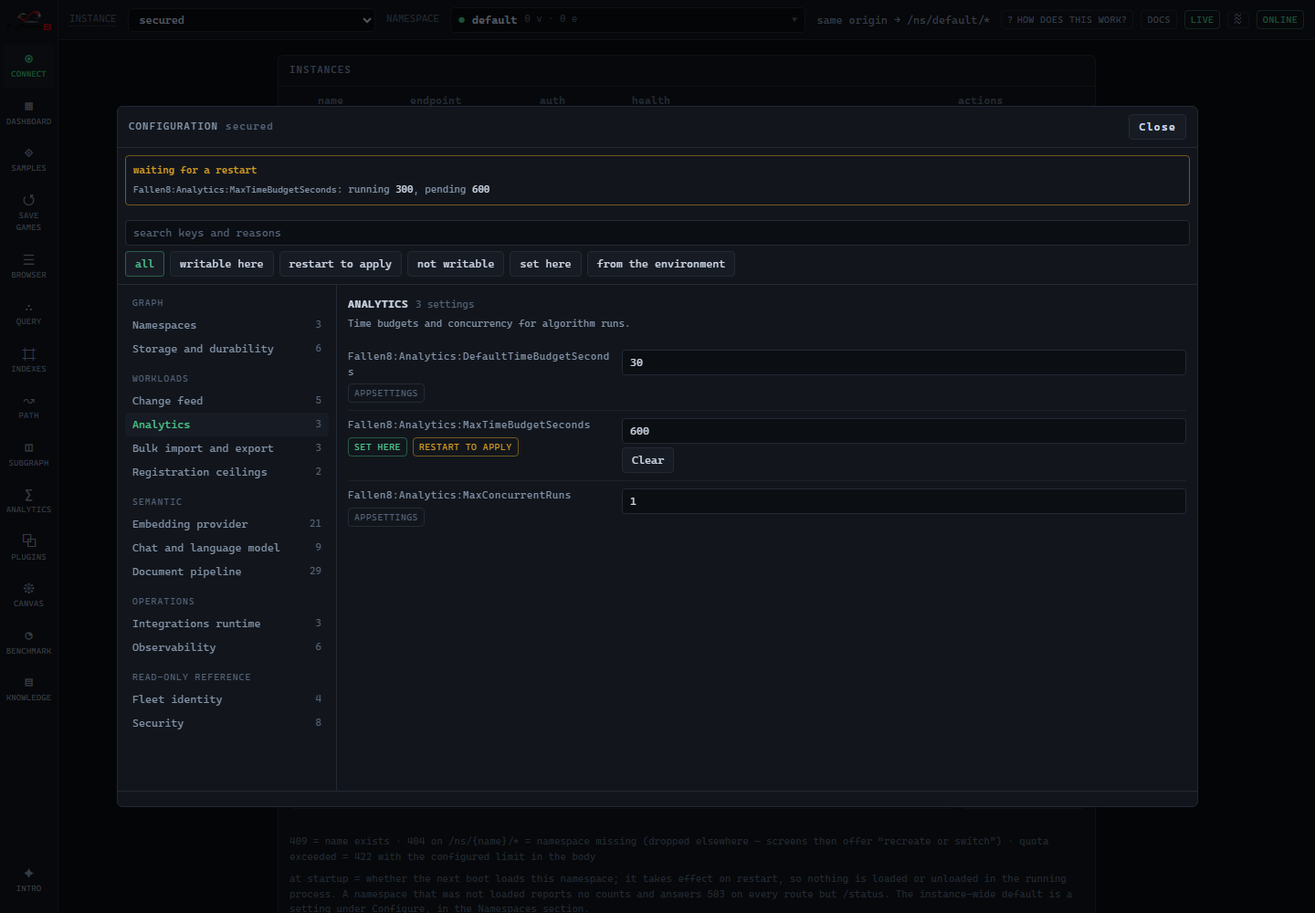
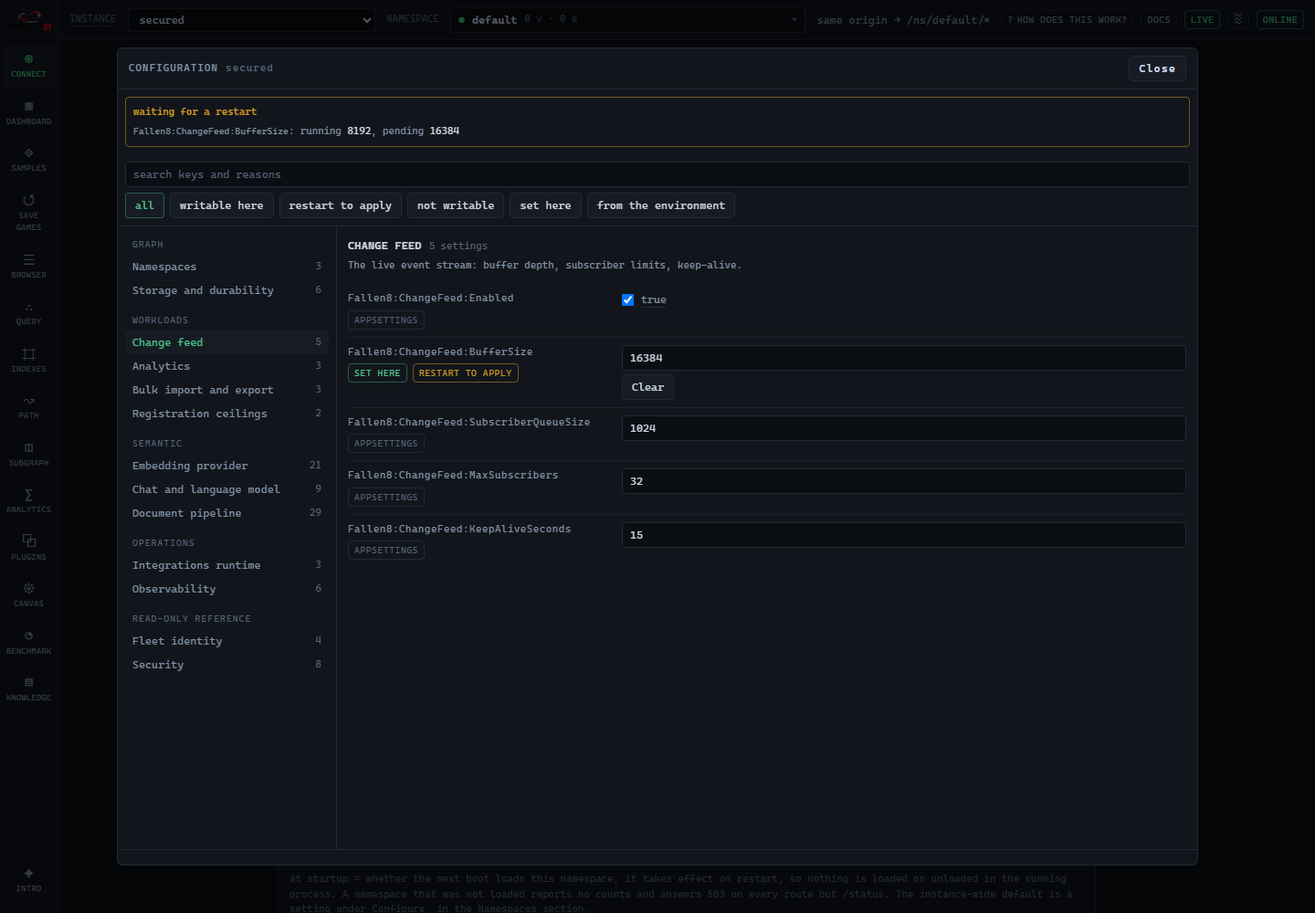
configuration-surface: what the council review found
Eight confirmed findings out of nineteen candidates, two of them the kind that ship silently.

The exporter view disappeared under a search or a filter on an instance that publishes no
settings inventory. That is the exact case withObservability injects the section for, and
the note above it still said what it is exporting is "readable below" while the pane was
blank. The narrowing controls are no longer rendered when there is nothing to narrow, the
hand-authored layout survives any filter for a section with no descriptors of its own
(reachable with an inventory too, since an instance can publish settings and none under
Fallen8:Observability), and the false promise is gone. Two new cases pin it.

The recaptured observability screenshot was clipped one row short, publishing five of six
keys with every guard green, because toBeVisible() is true for a row below the pane's
scroll. Added a toBeInViewport guard on the last row, and raised the dialog height cap from
48rem to 56rem so it fits. The cap was a real limit and not just a capture problem: a
six-row section with group hints did not fit on a screen with the space for it.

Also: the nav printed a false "0" beside the injected Observability entry, because
`?? 0` collapsed the null before the suppression guard could see it, leaving that guard and
two comments as dead code. The restart-pending filter label was re-authored instead of
importing RESTART_PENDING_CHIP from its declared one home. The Connect capture's inventory
[…]

Changed region(s): [[0.0938, 0.062, 0.9062, 0.775], [0.4688, 0.465, 0.5, 0.589], [0.4062, 0.434, 0.4375, 0.465]]

diff --git a/fallen-8-web-ui/src/components/ConfigurationSurface.tsx b/fallen-8-web-ui/src/components/ConfigurationSurface.tsx
@@ -94,7 +94,10 @@ export function ConfigurationSurface(props: ConfigurationSurfaceProps) {
         <Dialog.Content
           aria-describedby={undefined}
           data-testid="config-surface"
-          className="panel modal-center flex h-[min(48rem,90vh)] w-[min(74rem,94vw)] flex-col overflow-hidden"
+          // 56rem rather than 48: at 48 a six-row section with group hints did not fit, which is not
+          // just a screenshot problem - it is rows an operator has to scroll for on a screen that had
+          // the space. 90vh still wins on a short window.
+          className="panel modal-center flex h-[min(56rem,90vh)] w-[min(74rem,94vw)] flex-col overflow-hidden"
         >
           {/* Mounted UNDER Dialog.Content on purpose: Radix unmounts this subtree on close, which is
               what resets the section, the query and the filter. */}
@@ -195,30 +198,35 @@ function SurfaceBody({
         </div>
       )}
 
-      <div className="border-line flex shrink-0 flex-wrap items-center gap-1.5 border-b p-2">
-        <input
-          className="input w-56 shrink-0"
-          data-testid="config-search"
-          type="search"
-          placeholder="search keys and reasons"
-          aria-label="search settings"
-          value={query}
-          onChange={(event) => setQuery(event.target.value)}
-        />
-        {CONFIG_FILTERS.map((entry) => (
-          <button
-            key={entry.id}
-            type="button"
-            title={entry.title}
-            aria-pressed={filter === entry.id}
-            data-testid={`config-filter-${entry.id}`}
-            className={filter === entry.id ? "btn btn-accent normal-case" : "btn normal-case"}
-            onClick={() => setFilter(entry.id)}
-          >
-            {entry.label}
-          </button>
-        ))}
-      </div>
+      {/* No inventory means nothing to narrow, and a filter here could only ever subtract the one
+          section that still has something to say. Hiding the controls is what keeps `filter` at "all"
+          and `query` empty on such an instance. */}
+      {settings.length > 0 && (
+        <div className="border-line flex shrink-0 flex-wrap items-center gap-1.5 border-b p-2">
+          <input
+            className="input w-56 shrink-0"
+            data-testid="config-search"
+            type="search"
+            placeholder="search keys and reasons"
+            aria-label="search settings"
+            value={query}
+            onChange={(event) => setQuery(event.target.value)}
+          />
+          {CONFIG_FILTERS.map((entry) => (
+            <button
+              key={entry.id}
+              type="button"
+              title={entry.title}
+              aria-pressed={filter === entry.id}
+              data-testid={`config-filter-${entry.id}`}
+              className={filter === entry.id ? "btn btn-accent normal-case" : "btn normal-case"}
+              onClick={() => setFilter(entry.id)}
+            >
+              {entry.label}
+            </button>
+          ))}
+        </div>
+      )}
 
       <div className="flex min-h-0 flex-1">
         {/* w-60 is the width at which the longest section label ("Chat and language model") fits
@@ -242,7 +250,7 @@ function SurfaceBody({
                   <NavEntry
                     key={entry.section.id}
                     entry={entry}
-                    count={counts.get(entry.section.id) ?? 0}
+                    count={counts.get(entry.section.id) ?? null}
                     active={!searching && entry.section.id === selected?.section.id}
                     onSelect={() => {
                       setSectionId(entry.section.id);
@@ -258,8 +266,7 @@ function SurfaceBody({
         <div className="min-w-0 flex-1 overflow-y-auto p-3" data-testid="config-section-pane">
           {settings.length === 0 && (
             <p className="text-fg-faint mb-3 text-[11px]" data-testid="config-no-inventory">
-              This instance publishes no settings inventory, so nothing here can be changed. What it is
-              exporting is still readable below.
+              This instance publishes no settings inventory, so nothing here can be changed.
             </p>
           )}
           {panes.length === 0 ? (
@@ -409,7 +416,11 @@ function SectionPane({
   // Observability keeps its hand-authored layout, which explains what its keys are for and shows the
   // effective value of the three whose descriptor withholds it. A query or a filter falls back to the
   // generic rows, so searching and filtering behave the same in every section.
-  const custom = entry.section.id === "observability" && !searching && filter === "all";
+  // A section with NO descriptors keeps this layout whatever the filter says, because the generic row
+  // path would render nothing at all for it. Reachable with an inventory too: an instance can publish
+  // settings and none of them under Fallen8:Observability.
+  const custom =
+    entry.section.id === "observability" && !searching && (filter === "all" || entry.settings.length === 0);
 
   return (
     <section>

diff --git a/fallen-8-web-ui/e2e/screenshot-configuration.spec.ts b/fallen-8-web-ui/e2e/screenshot-configuration.spec.ts
@@ -47,14 +47,18 @@ import { expect, test } from "@playwright/test";
 const API_KEY = process.env.F8_E2E_API_KEY ?? "e2e-key";
 const AUTH = { Authorization: `Bearer ${API_KEY}` };
 
-// A RESTART-tier key in a small section, so one written value puts all three things this surface
-// exists for on the picture at once: the "set here" source badge, the restart-to-apply chip on the
-// row, and the pending list naming the running and the pending value. It has to be restart-tier for
-// the pending state to appear at all (a live key applies immediately and is correctly never pending),
-// and its section has to be small enough that the whole of it is in frame.
-const WRITTEN_KEY = "Fallen8:Analytics:MaxTimeBudgetSeconds";
-const WRITTEN_ROW = "config-setting-fallen8-analytics-maxtimebudgetseconds";
-const WRITTEN_SECTION = "config-section-analytics";
+// A RESTART-tier key, so one written value puts all three things this surface exists for on the
+// picture at once: the "set here" source badge, the restart-to-apply chip on the row, and the pending
+// list naming the running and the pending value. It has to be restart-tier for the pending state to
+// appear at all (a live key applies immediately and is correctly never pending).
+//
+// Change feed rather than a smaller section: its five keys fill the pane and cover three of the
+// control shapes a reader should see (a checkbox for a bool, numeric fields, and a live-tier row
+// beside restart-tier ones), while still fitting without scrolling.
+const WRITTEN_KEY = "Fallen8:ChangeFeed:BufferSize";
+const WRITTEN_VALUE = "16384";
+const WRITTEN_ROW = "config-setting-fallen8-changefeed-buffersize";
+const WRITTEN_SECTION = "config-section-changefeed";
 
 test.skip(process.env.F8_SCREENSHOT !== "1", "docs screenshot capture (set F8_SCREENSHOT=1)");
 
@@ -67,7 +71,7 @@ test("capture the configuration surface", async ({ page, request }) => {
   // a settled state, not of a form mid-edit.
   const written = await request.patch("/config", {
     headers: AUTH,
-    data: { settings: { [WRITTEN_KEY]: "600" } },
+    data: { settings: { [WRITTEN_KEY]: WRITTEN_VALUE } },
   });
   expect(
     written.ok(),
@@ -107,7 +111,7 @@ test("capture the configuration surface", async ({ page, request }) => {
   await expect(
     page.getByTestId(WRITTEN_ROW),
     "the stored value did not survive to the read surface.",
-  ).toHaveValue("600");
+  ).toHaveValue(WRITTEN_VALUE);
   await expect(
     page.getByTestId("config-pending-restart-detail"),
     "the pending-restart list is absent: a restart-tier value must differ from what this process " +

diff --git a/fallen-8-web-ui/e2e/screenshot-connect.spec.ts b/fallen-8-web-ui/e2e/screenshot-connect.spec.ts
@@ -109,12 +109,23 @@ test("capture the Connect screen", async ({ page, request }) => {
   // false by construction (they are in a modal). What this shot documents is the summary and the way
   // in, so the inventory count and the Configure button are the things that have to be real: the
   // count is only non-zero when the capture app actually published an inventory.
+  // The count has to be NON-ZERO: "0 set here" is what an app with no stored configuration prints, and
+  // this shot exists partly to show that an instance can hold its own settings. A bare /set here/
+  // matched that degraded string.
   await expect(
     page.getByTestId("config-settings-summary"),
-    "the settings inventory is missing: run the capture app with Fallen8__Metadata__Directory so it " +
-      "has somewhere to store configuration.",
-  ).toContainText(/set here/, { timeout: 20_000 });
+    "the inventory reports nothing stored here: run e2e/screenshot-configuration.spec.ts FIRST (it " +
+      "writes the value), against a capture app with Fallen8__Security__EnableConfigurationWrite=true " +
+      "and a FRESH Fallen8__Metadata__Directory.",
+  ).toContainText(/[1-9]\d* set here/, { timeout: 20_000 });
   await expect(page.getByTestId("config-configure")).toBeVisible();
+  // Same prerequisite, stated as its own guard so a missing restart notice is not silently accepted:
+  // the card's restart count is part of what this frame documents.
+  await expect(
+    page.getByTestId("config-pending-restart"),
+    "the restart notice is absent: same prerequisite as above, and the metadata directory must be " +
+      "fresh so the stored value really differs from what this process booted with.",
+  ).toBeVisible();
   await expect(
     page.locator('[data-testid^="config-setting-"]'),
     "a settings row is on the Connect screen, so the configuration surface did not take them.",

diff --git a/fallen-8-web-ui/tests/connect-config.test.tsx b/fallen-8-web-ui/tests/connect-config.test.tsx
@@ -185,6 +185,33 @@ describe("Connect Configuration card", () => {
     expect(screen.getByTestId("config-settings-summary")).toHaveTextContent(
       "publishes no settings inventory",
     );
+
+    // Nothing to narrow, so the two controls that could only ever subtract this one section are not
+    // offered at all. Without this, one filter click blanked the pane and the exporter view was gone.
+    expect(screen.queryByTestId("config-search")).toBeNull();
+    expect(screen.queryByTestId("config-filter-writable")).toBeNull();
+    // And the nav shows no number beside it: a "0" next to a pane that does have content is a lie.
+    expect(screen.getByTestId("config-section-observability")).not.toHaveTextContent("0");
+  });
+
+  it("keeps the exporter view under a filter when the section itself has no descriptors", async () => {
+    // The instance publishes settings, but none under Fallen8:Observability, so the filter strip IS
+    // offered. The hand-authored layout has to survive it: the generic row path would render nothing
+    // at all for a section with no descriptors, leaving a blank pane under a section heading.
+    const user = userEvent.setup();
+    getConfigMock.mockResolvedValue(config({ settings: [setting("Fallen8:Plugins:MaxCount")] }));
+    renderPanel();
+    await screen.findByTestId("config-embedding");
+
+    await openConfig(user);
+    await selectSection(user, "observability");
+    await screen.findByTestId("config-observability-overlay");
+
+    await user.click(screen.getByTestId("config-filter-writable"));
+    await waitFor(() =>
+      expect(screen.getByTestId("config-observability-overlay")).toBeInTheDocument(),
+    );
+    expect(screen.getByTestId("config-otlp-endpoint")).toHaveTextContent("http://otel-collector:4317");
   });
 
   it("hides GPU when unknown, shows off states, and reports no exporter", async () => {

diff --git a/fallen-8-web-ui/src/components/ObservabilitySection.tsx b/fallen-8-web-ui/src/components/ObservabilitySection.tsx
@@ -41,8 +41,8 @@ import { SettingRow } from "./SettingRow";
  *
  * Two row shapes, for a reason. The exporter switches and the endpoint decide the security posture of
  * a metrics surface, so they are never writable and the server withholds their descriptor value; their
- * effective value arrives on the observability block instead, which is what EnvRow reads. The three
- * bounds beside them ARE writable, so they render as ordinary setting rows.
+ * effective value arrives on the observability block instead, which is what EnvRow reads. The sampling
+ * ratio and the two statistics bounds beside them ARE writable, so they render as ordinary setting rows.
  */
 
 function EnvRow({ label, value, envKey }: { label: string; value: string; envKey: string }) {
@@ -136,7 +136,7 @@ export function ObservabilitySection({
       <p className="text-fg-dim text-[12px]">
         The exporter switches and the endpoint are read-only wherever you look at them: each decides
         the security posture of a metrics surface, so they are set where the instance is deployed. The
-        three bounds beside them are writable here.
+        sampling ratio and the two statistics bounds beside them are writable here.
       </p>
 
       <ObsSection

diff --git a/fallen-8-web-ui/src/lib/configCatalog.ts b/fallen-8-web-ui/src/lib/configCatalog.ts
@@ -24,6 +24,7 @@
 // SOFTWARE.
 
 import type { ConfigSettingSource, SettingREST } from "../api/types";
+import { RESTART_PENDING_CHIP } from "./restartCopy";
 
 /**
  * The client's view of the server's setting catalog (feature configuration-surface): how the
@@ -383,7 +384,9 @@ export const CONFIG_FILTERS: readonly { id: ConfigFilterId; label: string; title
   },
   {
     id: "restartPending",
-    label: "restart to apply",
+    // The chip it selects, not a second phrasing of it: restartCopy.ts is the one home for how Studio
+    // talks about a setting that is waiting on a restart.
+    label: RESTART_PENDING_CHIP,
     title: "Settings whose stored value is not the value this process is running with",
   },
   { id: "notWritable", label: "not writable", title: "Settings excluded from writes by a rule, with the reason" },

diff --git a/fallen-8-web-ui/e2e/screenshot-observability.spec.ts b/fallen-8-web-ui/e2e/screenshot-observability.spec.ts
@@ -80,5 +80,13 @@ test("capture the observability configuration section", async ({ page }) => {
       'on the whole overlay: the Prometheus scrape row reads "off" by design.',
   ).not.toHaveText("off");
 
+  // GUARD: the LAST row of the LAST group has to be in frame. Without this the first recapture after
+  // the fold-in published a frame clipped one row short, showing five of the six keys, and every
+  // other assertion here still passed: toBeVisible() is true for a row below the pane's scroll.
+  await expect(
+    page.getByTestId("config-setting-fallen8-observability-statisticstopn"),
+    "the top-N row is below the section pane's scroll, so the shot would document five of six keys.",
+  ).toBeInViewport();
+
   await page.screenshot({ path: "../docs/src/assets/images/screen-connect-observability.png" });
 });

diff --git a/features/open/configuration-surface/plan.md b/features/open/configuration-surface/plan.md
@@ -176,7 +176,50 @@ council review gate on the branch.
 | P4 tests | done. 65 cases across the three config suites, 1008 in the whole suite, `tsc -b` clean. All four mutation checks fail the suite as intended. |
 | P5 e2e + screenshots | done. Three specs retargeted and parse-checked; three images recaptured against an isolated app on port 17451 with a fresh metadata directory. |
 | P6 docs | done. Docs build green, all internal links valid. |
-| P7 gates + council | gates done: vitest, tsc, build:apiapp, build:lib, docs build, `dotnet build` (0 errors, only the pre-existing IL2026 trim warnings). Council pending. |
+| P7 gates + council | done. Gates: vitest 1009, tsc, build:apiapp, build:lib, docs build, `dotnet build` (0 errors, only the pre-existing IL2026 trim warnings). Council: 4 lenses, 19 candidate findings, 8 confirmed after adversarial verification, all 8 addressed below. |
+
+## Council round
+
+Four review lenses (correctness and state, regression against HEAD~1, house rules and duplication,
+the untested e2e and embed surfaces), then one refutation pass per finding. 19 candidates, 11 refuted,
+8 confirmed. Two were flagged must-fix. What changed:
+
+1. **The exporter view vanished under a search or a filter on an instance with no inventory** (major).
+   `withObservability` injects the section precisely so an older server keeps that view, but the
+   hand-authored layout was gated on `filter === "all" && !searching`, and the injected section has no
+   descriptors, so the generic path rendered nothing while the note above it still promised the
+   exporter was "readable below". Fixed three ways: the search box and filter strip are not rendered
+   when there is nothing to narrow, the layout survives any filter for a section with no descriptors
+   (reachable with an inventory too), and the false promise clause is gone. Two new cases pin it.
+2. **The recaptured observability screenshot was clipped one row short** (major). It published five of
+   the six keys, and every guard passed, because `toBeVisible()` is true for a row below the pane's
+   scroll. Added a `toBeInViewport()` guard on the last row of the last group, and raised the dialog
+   height cap from 48rem to 56rem so it fits. The cap was a real product limit, not just a capture
+   problem: a six-row section with group hints did not fit on a screen that had the space.
+3. **A false "0" beside the injected Observability nav entry.** `count={counts.get(id) ?? 0}` collapsed
+   the null before `NavEntry`'s suppression guard could see it, making the guard, its prop doc and the
+   comment above `counts` all dead code. One-line fix, plus an assertion.
+4. **The restart-pending filter label was re-authored** as a literal instead of importing
+   `RESTART_PENDING_CHIP`, which is the declared one home for that wording. The filter now equals the
+   chip it selects by construction.
+5. **The Connect capture's inventory guard could not fail.** `/set here/` also matches the degraded
+   "0 set here" an app with no stored configuration prints. Tightened to `/[1-9]\d* set here/`, added a
+   restart-notice guard, and both messages now name the real prerequisite (run the configuration
+   capture first, against a fresh metadata directory) instead of the wrong one.
+6. **The spec promised a disabled Configure button** while the read is pending; the card renders no
+   button at all, which its own test pins. Spec corrected to the shipped contract.
+7. **The docs claimed the surface shows each setting's tier per row.** It does not: a row carries the
+   source badge, a restart-pending chip, and for a never-writable key the rule and reason. The page now
+   says the surface shows the consequence rather than the label, and the image alt matches.
+8. The configuration capture was repointed from Analytics (3 rows) to Change feed (5), so the published
+   image covers a checkbox, numeric fields and a live-tier row beside restart-tier ones, and fills the
+   taller dialog instead of leaving two thirds of it empty.
+
+One process note worth recording: a verify agent left its own one-line fix in the working tree rather
+than reverting it, and a `prettier --write` run reformatted two files to an 80 column width this repo
+does not use. Both were caught by reading `git diff` before committing. Do not trust a review agent to
+leave the tree clean, and do not run prettier here: there is no config, so its defaults are not the
+house style.
 
 ## Found while doing this, and fixed
 

diff --git a/docs/src/content/docs/studio.md b/docs/src/content/docs/studio.md
@@ -61,7 +61,7 @@ Three panels, and one surface behind the middle one. The **Instances** table lis
 
 The **Configuration** card is this instance's own configuration home, sourced from `GET /config`. On the card itself: the **semantic providers**, meaning the embedding provider (backend / model / dimension / metric) and the **chat gateway** (backend / model), each with a live status line saying whether the model is loaded right now and, when the Ollama backend reports it, whether it sits on the GPU or the CPU (a model that has not been used yet reads "not loaded (loads on first use)"); a one-line **observability** status ("pushing metrics + traces + logs to `<endpoint>`" / "Prometheus at `/metrics`" / off); how many settings the instance publishes and how many it has stored itself; and a count when a stored value differs from the one the process started with. Secrets are never shown (only whether an API key is required). See [semantic-traversal.md](/semantic-traversal/) and [observability.md](/observability/).
 
-**Configure** opens the settings themselves, in a surface of their own. It holds **every setting the instance binds** with its value, the layer that value came from, and whether it may be changed: most writable settings take effect at the next boot and each row says so, a setting the environment declares renders read-only with the variable named underneath it, and a setting that is never writable shows the reason instead of a dead control. They are grouped into sections with a nav down the left, one section at a time, and there is a search across all of them plus filters for writable, restart-pending, not writable, set here and environment-declared. Editing needs an API key **and** `Fallen8:Security:EnableConfigurationWrite`; without them everything is read-only and the surface says why. The **Observability** section of that surface groups the exporter values under **Push (OTLP)**, **Pull (Prometheus scrape)** and **Statistics snapshot**, so the live push path is never mistaken for the off-by-default scrape endpoint, with the `Fallen8__…` env key under each read-only row and the three statistics bounds editable. The full model, including why roughly half of the settings are not writable, is on [configuration.md](/configuration/).
+**Configure** opens the settings themselves, in a surface of their own. It holds **every setting the instance binds** with its value, the layer that value came from, and whether it may be changed: most writable settings take effect at the next boot and each row says so, a setting the environment declares renders read-only with the variable named underneath it, and a setting that is never writable shows the reason instead of a dead control. They are grouped into sections with a nav down the left, one section at a time, and there is a search across all of them plus filters for writable, restart-pending, not writable, set here and environment-declared. Editing needs an API key **and** `Fallen8:Security:EnableConfigurationWrite`; without them everything is read-only and the surface says why. The **Observability** section of that surface groups the exporter values under **Push (OTLP)**, **Pull (Prometheus scrape)** and **Statistics snapshot**, so the live push path is never mistaken for the off-by-default scrape endpoint, with the `Fallen8__…` env key under each read-only row, and the sampling ratio and the two statistics bounds editable. The full model, including why roughly half of the settings are not writable, is on [configuration.md](/configuration/).
 
 ![The Observability section of the configuration surface: Push (OTLP), Pull (Prometheus scrape), and Statistics snapshot](../../assets/images/screen-connect-observability.png)
 

diff --git a/docs/src/content/docs/configuration.md b/docs/src/content/docs/configuration.md
@@ -7,7 +7,7 @@ Fallen-8 reads its configuration the way any ASP.NET Core application does: from
 
 That distinction matters more than it sounds. Before this, the only way to know what a running instance was actually configured with was to go and read the files you deployed it with, and the only way to change anything was to edit them and restart. Now the instance itself is the authority on its own configuration, and it will tell you where each value came from.
 
-![The configuration surface in F8 Studio: a section list on the left, the selected section's settings with their source and tier on the right](../../assets/images/screen-configuration.png)
+![The configuration surface in F8 Studio: a section list on the left, the selected section's settings on the right with the layer each value came from and whether one is waiting for a restart](../../assets/images/screen-configuration.png)
 
 ## Two surfaces, and why
 
@@ -23,7 +23,7 @@ The surface is where the settings are, organised three ways at once:
 
 ## What you can change, and what you cannot
 
-Every setting falls into one of three tiers, and the surface shows which:
+Every setting falls into one of three tiers:
 
 | Tier | What it means |
 |---|---|
@@ -31,7 +31,7 @@ Every setting falls into one of three tiers, and the surface shows which:
 | **restart** | Writable, and it takes effect at the next boot. Stored immediately; nothing changes until you restart. |
 | **not writable** | Cannot be changed over REST at all. The instance publishes the key, the rule that excludes it and the reason, but not its value. |
 
-Most writable settings are restart-tier, and the surface says so per setting rather than letting you assume otherwise. **A wrong "this applied" claim is the worst thing this surface could do**, because you would only find out when the behaviour you expected never arrived, so the tier is derived from what the running code can actually honour, not from what would be convenient.
+The surface does not print the tier as a label on every row. It shows the consequence instead: a never-writable setting has no control at all, only its rule and its reason, and a writable one whose stored value is not the value in force carries a restart-to-apply chip. Most writable settings are restart-tier, and nothing here implies otherwise. **A wrong "this applied" claim is the worst thing this surface could do**, because you would only find out when the behaviour you expected never arrived, so the tier is derived from what the running code can actually honour, not from what would be convenient.
 
 The live tier is narrower still, and honest about it. The settings that are live today are all **caps that are consulted when work starts**: the change feed's subscriber limit and queue depth, its keep-alive period, the plugin and stored-query registration ceilings, and the namespace ceiling. Raising one governs the next subscribe, the next registration, the next namespace immediately. Lowering one **evicts nothing**: an open change-feed stream keeps its slot, a registered plugin stays registered, an existing namespace is not deleted. The surface reports that as "in effect for new work" rather than a bare "applied", because for anything already running the old limit is still the one that matters.
 

diff --git a/features/open/configuration-surface/spec.md b/features/open/configuration-surface/spec.md
@@ -148,9 +148,9 @@ renders, in a trailing group, so a key added later cannot vanish.
 
 ## 5. Interaction contract
 
-**Opening.** One button, `config-configure`, enabled only once `GET /config` has answered. While the
-read is pending or failed it is disabled with a title, and the card's existing unavailable note is the
-explanation.
+**Opening.** One button, `config-configure`, rendered only once `GET /config` has answered. While the
+read is pending or failed there is no button at all, because a dialog listing nothing is worse than
+the card's own checking or unavailable note, which is the whole explanation.
 
 **Search** matches the key, the rule and the reason, case-insensitively, and never the value (a value
 can be an endpoint or a path, and a value search would turn the box into a way to fish for them). A
@@ -158,9 +158,16 @@ non-empty query shows matches **across all sections** as a flat, section-labelle
 search that silently searched only the selected section would be a trap. The nav shows per-section
 match counts while a query is active.
 
-**Filters** are `all` (default), `writable`, `needs restart`, `not writable`, `set here`, `from the
-environment`. `not writable` keys on the tier, never on an absent value. A filter never hides rows
-silently: the pane always states "N of M settings" for what it is showing.
+**Filters** are `all` (default), `writable here`, the restart-pending chip's own wording, `not
+writable`, `set here`, `from the environment`. `not writable` keys on the tier, never on an absent
+value. A filter never hides rows silently: the pane always states "N of M settings" for what it is
+showing.
+
+**Neither control is offered when there is nothing to narrow.** On an instance that publishes no
+settings inventory the search box and the filter strip are absent, because the only section with
+anything to say there is Observability, which reads its values off the observability block rather
+than off descriptors, and any narrowing could only subtract it. For the same reason that section keeps
+its hand-authored layout under a filter whenever it has no descriptors of its own.
 
 **Closing with unsaved edits keeps the draft.** Escape and a scrim click stay Radix defaults. The
 card keeps showing the unsaved-changes marker and the poll stays suspended; reopening restores the
